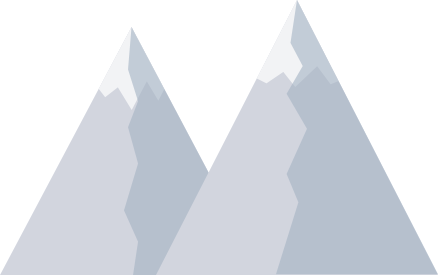
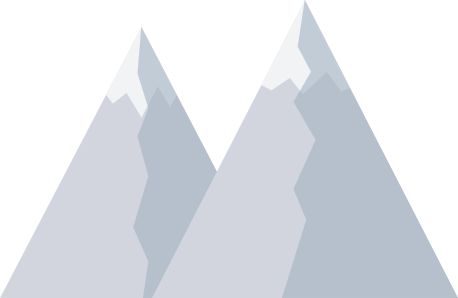
finished version

diff --git a/src/main/java/ch/fhnw/cuie/project/template_simplecontrol/style.css b/src/main/java/ch/fhnw/cuie/project/template_simplecontrol/style.css
@@ -48,7 +48,7 @@
 }
 
 .Snow-control .mountains{
-    -fx-shape: "M60,326.22921 C65.8399258,317.583031 70.3585669,310.249008 73.5559232,304.227142 C76.7532795,298.205276 115.969867,223.168846 191.205685,79.1178524 L268.069775,224.377571 L356.628444,52 L497.459249,326.22921 L109.837079,326.22921 L84.134519,326.22921 L60,326.22921 Z";
+    -fx-shape: "M39.8401521,350.16683 C52.8191349,325.565529 60.9073072,310.253936 64.1046689,304.232052 C67.3020306,298.210169 106.506938,223.08102 181.71939,78.8446068 L257.070128,224.378075 L344.931527,52.0238245 L498.00049,350.16683 L110.484801,350.16683 L73.842507,350.16683 L39.8401521,350.16683 Z";
     -fx-background-image: url(Mountains.png);
 }
 

diff --git a/src/main/java/ch/fhnw/cuie/project/template_simplecontrol/SnowControl.java b/src/main/java/ch/fhnw/cuie/project/template_simplecontrol/SnowControl.java
@@ -138,10 +138,10 @@ public class SnowControl extends Region {
         snowHillBottom.setLayoutY(282);
 
         mountains = new Region();
-        mountains.setPrefHeight(274.23);
-        mountains.setPrefWidth(437.46);
-        mountains.setLayoutX(60);
-        mountains.setLayoutY(52);;
+        mountains.setPrefHeight(298.14);
+        mountains.setPrefWidth(458.16);
+        mountains.setLayoutX(43);
+        mountains.setLayoutY(45);
         mountains.getStyleClass().add("mountains");
 
         snowSlider = new Region();
